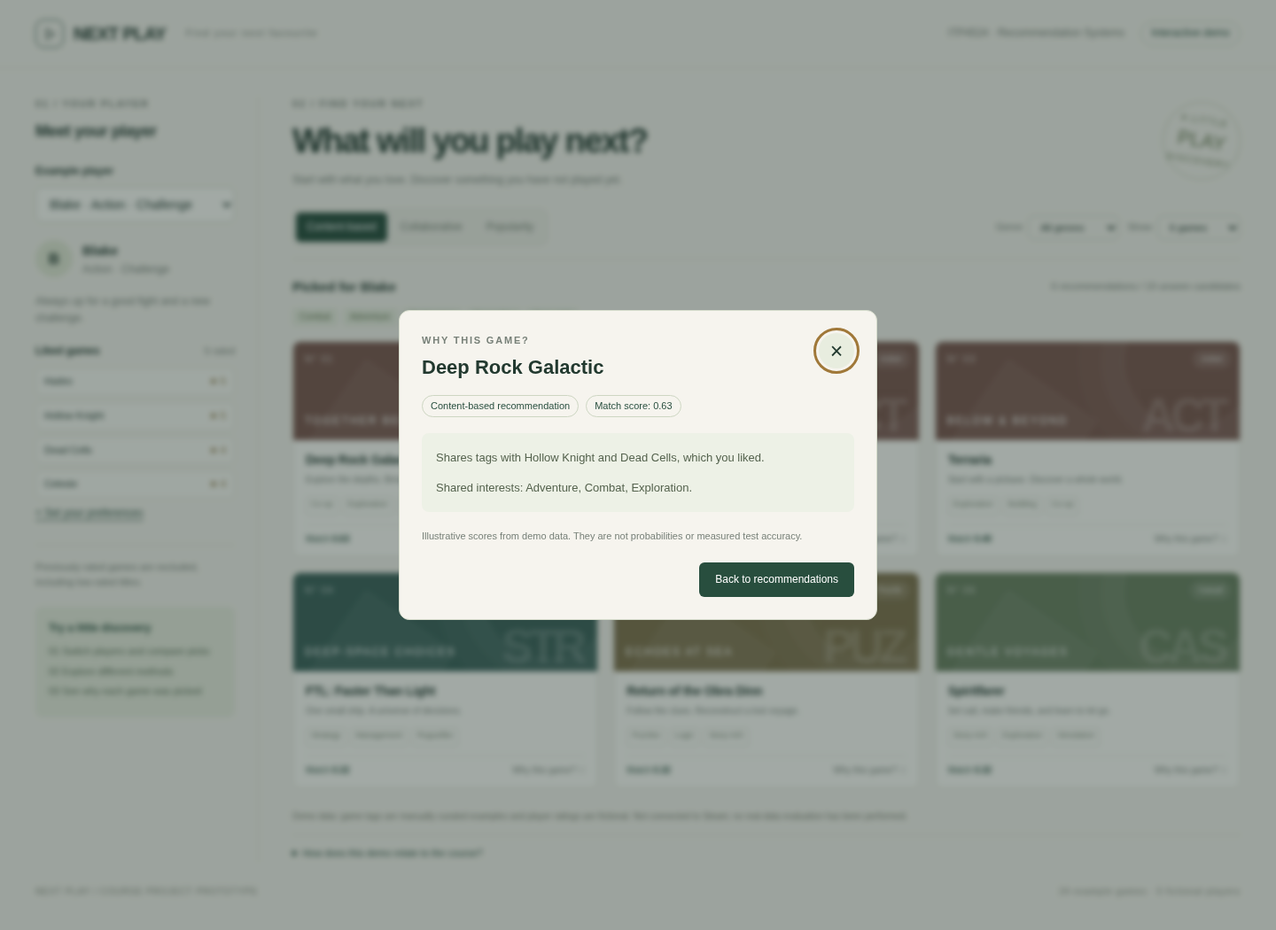
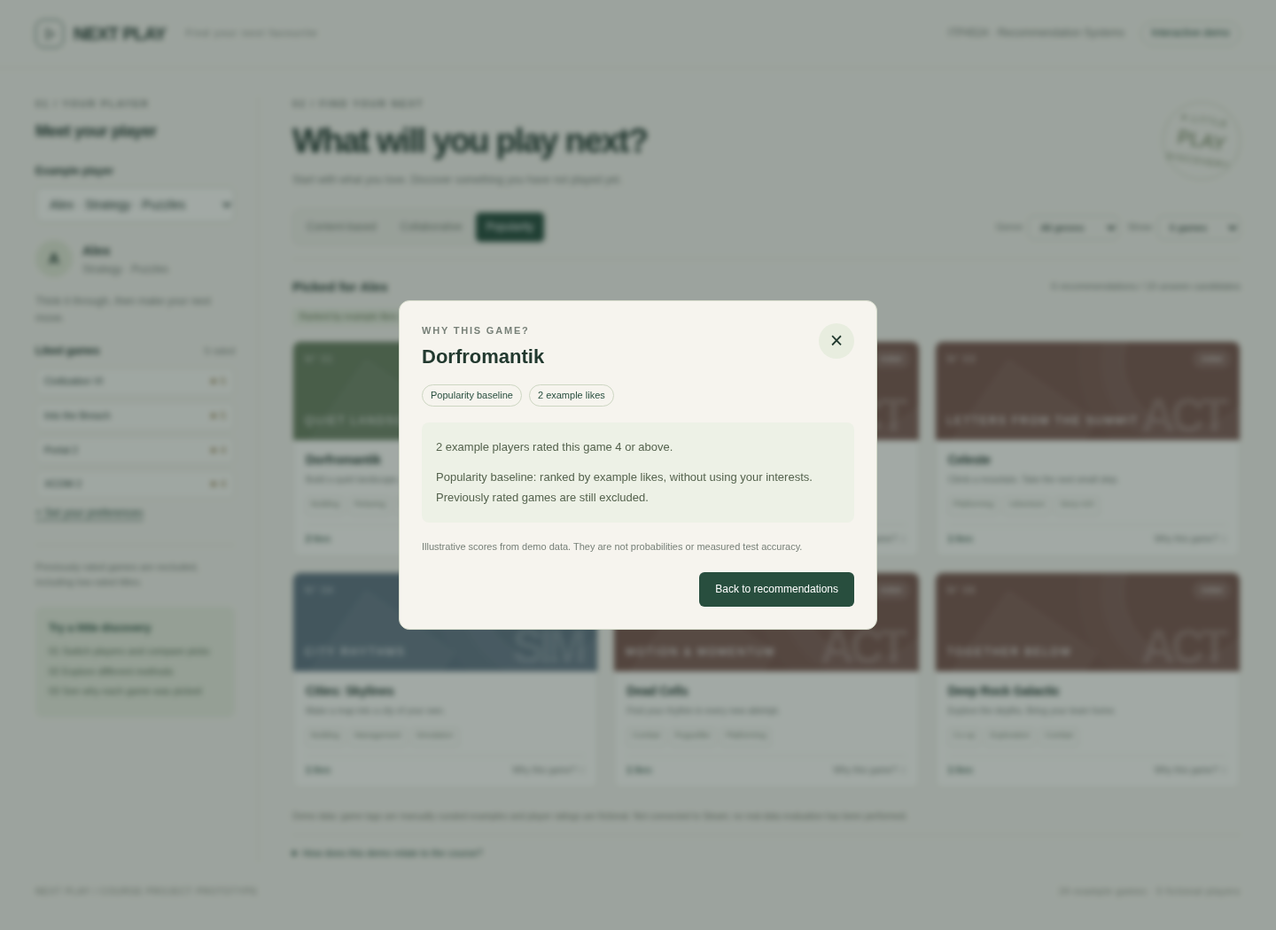
Synchronise current favourites and isolate scrolling in both dialogs

diff --git a/part_b/demo/index.html b/part_b/demo/index.html
@@ -6,12 +6,13 @@
 <title>Next Play · Game Recommendation Demo</title>
 <style>
 :root{--paper:#f6f4ee;--surface:#fffefa;--ink:#22392f;--muted:#778078;--line:#dedfd5;--green:#284e3e;--lime:#d9e7a6;--sans:"Segoe UI","PingFang SC","Microsoft YaHei",sans-serif}
-*{box-sizing:border-box}body{margin:0;background:var(--paper);color:var(--ink);font-family:var(--sans);font-size:14px;line-height:1.6}button,select,input{font:inherit}button,select,summary{cursor:pointer}button:focus-visible,select:focus-visible,summary:focus-visible,a:focus-visible{outline:3px solid #a07839;outline-offset:3px}button{color:inherit}button:disabled{cursor:wait;opacity:.65}header{border-bottom:1px solid var(--line)}.header-inner{max-width:1440px;margin:auto;padding:22px 40px;display:flex;align-items:center;justify-content:space-between;gap:20px}.brand{display:flex;align-items:center;gap:11px;font-size:20px;font-weight:750;letter-spacing:-.7px}.brand-mark{width:32px;height:32px;border:1.5px solid var(--green);border-radius:9px;display:grid;place-items:center}.brand-mark svg{width:19px}.brand small{font-size:11px;font-weight:500;letter-spacing:1.4px;margin-left:12px;color:var(--muted)}.header-right{display:flex;align-items:center;gap:18px;color:var(--muted);font-size:12px}.demo-tag{border:1px solid #c6d0bc;border-radius:30px;color:var(--green);padding:3px 11px}.shell{max-width:1440px;margin:auto;padding:32px 40px 18px;display:grid;grid-template-columns:252px minmax(0,1fr);gap:38px}.sidebar{padding-right:26px;border-right:1px solid var(--line)}.section-label{font-size:11px;letter-spacing:1.8px;color:var(--muted);font-weight:600}.sidebar h2{font-size:18px;letter-spacing:-.4px;margin:7px 0 22px}.field-label{display:block;font-size:12px;font-weight:600;margin-bottom:7px}select{width:100%;padding:10px 30px 10px 11px;background:var(--surface);border:1px solid #cbd0c2;border-radius:7px;color:var(--ink)}.player-card{padding:20px 0 17px;display:flex;gap:11px;align-items:center}.avatar{width:42px;height:42px;border-radius:50%;display:grid;place-items:center;background:#e2e8d5;font-size:17px;font-weight:600}.player-name{font-weight:650;font-size:15px}.player-taste{font-size:12px;color:var(--muted)}.player-note{font-size:12px;color:var(--muted);margin:0 0 18px}.history-label{display:flex;justify-content:space-between;align-items:center;font-size:12px;font-weight:600;margin-bottom:9px}.history-label span{font-size:11px;color:var(--muted);font-weight:400}.history{display:flex;flex-direction:column;gap:7px}.history-item{font-size:11px;display:flex;justify-content:space-between;gap:7px;border:1px solid var(--line);background:#fbfaf5;padding:6px 9px;border-radius:5px}.history-item span:first-child{overflow-wrap:anywhere}.stars{color:#8d7945;white-space:nowrap}.text-button{border:0;background:none;text-decoration:underline;text-underline-offset:4px;padding:7px 0;color:var(--green);font-size:12px}.sidebar-note{border-top:1px solid var(--line);margin-top:19px;padding-top:16px;color:var(--muted);font-size:11px}.steps{margin:18px 0;padding:15px;background:#e9eddf;border-radius:8px;color:#5a6f57;font-size:11px}.steps strong{display:block;color:var(--green);font-size:12px;margin-bottom:8px}.steps div{margin:5px 0}.hero{display:flex;justify-content:space-between;gap:18px;align-items:start;margin-bottom:23px}.hero h1{font-size:clamp(25px,2.8vw,38px);letter-spacing:-1.7px;line-height:1.35;margin:7px 0 9px;font-weight:700}.hero p{color:var(--muted);font-size:12px;margin:0}.hero-stamp{width:88px;height:88px;border:1px solid #c3ccb6;border-radius:50%;display:flex;flex-direction:column;align-items:center;justify-content:center;transform:rotate(9deg);color:#6b7c56;flex-shrink:0;font-size:10px;letter-spacing:1.5px;margin-top:6px}.hero-stamp b{font-size:22px;line-height:1.4;letter-spacing:0;font-weight:500}.toolbar{border-bottom:1px solid var(--line);padding-bottom:15px;margin-bottom:19px;display:flex;flex-wrap:wrap;align-items:center;justify-content:space-between;gap:12px}.methods{display:flex;padding:3px;border:1px solid var(--line);border-radius:8px;gap:3px;background:#efeee7}.method{background:none;border:0;border-radius:5px;padding:7px 12px;font-size:12px;color:#758073;transition:background .15s}.method[aria-pressed=true]{background:var(--green);color:#fff}.filters{display:flex;gap:9px}.filter{white-space:nowrap;display:flex;align-items:center;gap:6px;font-size:11px;color:var(--muted)}.filter select{padding:6px 20px 6px 9px;width:auto;font-size:11px;background:transparent}.result-header{flex-wrap:wrap;display:flex;justify-content:space-between;gap:10px;align-items:center;margin-bottom:12px}.result-header h2{font-size:15px;margin:0;font-weight:650}.result-header p{font-size:11px;color:var(--muted);margin:0}.taste-tags{display:flex;gap:6px;flex-wrap:wrap;margin-bottom:17px}.taste-tag{font-size:10px;padding:2px 8px;background:#e8eddf;color:#62734e;border-radius:3px}.game-grid{display:grid;grid-template-columns:repeat(3,minmax(0,1fr));gap:17px;transition:opacity .15s}.game-grid[aria-busy=true]{opacity:.45}.game-card{background:var(--surface);border:1px solid #e0e1d7;border-radius:9px;overflow:hidden;min-width:0;transition:transform .15s,box-shadow .15s}.game-card:hover{transform:translateY(-3px);box-shadow:0 8px 24px #283b2d0c}.poster{height:111px;position:relative;overflow:hidden;background:var(--tone);color:white}.poster:before{content:"";position:absolute;width:150px;height:150px;right:-20px;top:-54px;border:1px solid #ffffff33;border-radius:50%;box-shadow:0 0 0 24px #ffffff09,0 0 0 50px #ffffff07}.poster:after{content:"";position:absolute;left:36px;bottom:-55px;width:120px;height:120px;background:#ffffff0d;transform:rotate(35deg);border:1px solid #ffffff1a}.art-word{position:absolute;right:17px;bottom:-11px;font-size:53px;letter-spacing:-5px;opacity:.18;font-weight:700;line-height:1.5}.rank{position:absolute;left:13px;top:11px;font-size:11px;color:#ffffffab;letter-spacing:1px}.edition{position:absolute;left:13px;bottom:12px;font-size:12px;letter-spacing:2px}.genre{position:absolute;right:11px;top:10px;background:#ffffff19;border:1px solid #ffffff38;padding:1px 7px;border-radius:10px;font-size:9px}.game-body{padding:13px 14px 11px}.game-title{margin:0 0 4px;font-size:14px;font-weight:650;letter-spacing:-.25px;line-height:1.4;min-height:20px}.game-description{font-size:10px;color:var(--muted);margin:0 0 11px;line-height:1.6;min-height:16px}.game-tags{display:flex;gap:5px;flex-wrap:wrap;min-height:21px}.game-tag{font-size:9px;border:1px solid var(--line);border-radius:3px;padding:0 5px;color:#73806c}.card-bottom{border-top:1px solid #e8e9e0;margin-top:10px;padding-top:8px;display:flex;justify-content:space-between;align-items:start;gap:5px}.score{font-size:10px;color:var(--green);white-space:nowrap}.score b{font-weight:650}.why{font-size:10px;text-align:right;max-width:100%;border:0;padding:0;background:none;color:var(--muted)}.why:hover{color:var(--green);text-decoration:underline;text-underline-offset:3px}.why span{margin-left:3px}.empty{grid-column:1/-1;padding:55px 25px;border:1px dashed #b9c2ad;border-radius:9px;text-align:center;color:#74806b}.empty h3{color:var(--ink);font-size:17px;margin-top:0}.reset{border:1px solid var(--line);background:var(--surface);padding:7px 15px;border-radius:5px;margin-top:10px;font-size:12px}.data-note{color:#7a7f70;font-size:10px;padding:14px 0 4px;margin:10px 0 0}.course-note{font-size:11px;color:var(--muted);border-top:1px solid var(--line);padding-top:12px;margin-top:8px}.course-note summary{color:var(--green)}.course-note p{margin:9px 0;max-width:850px;line-height:1.9}footer{max-width:1440px;margin:auto;padding:8px 40px 21px;font-size:10px;letter-spacing:.9px;color:#8a8f82;display:flex;justify-content:space-between;gap:12px}.busy-text{font-size:11px;color:var(--muted)}dialog{width:min(720px,calc(100% - 28px));border:1px solid #d6dccc;border-radius:12px;background:var(--paper);color:var(--ink);padding:25px;max-height:85vh}dialog::backdrop{background:#172b2566;backdrop-filter:blur(3px)}.dialog-header{display:flex;justify-content:space-between;gap:12px;align-items:start}.dialog-header h2{margin:0;font-size:22px}.dialog-header p{font-size:12px;color:var(--muted);margin:5px 0 19px}.close{background:none;border:0;font-size:25px;line-height:1}.game-picker{display:grid;grid-template-columns:repeat(3,minmax(0,1fr));gap:8px;max-height:47vh;overflow:auto;padding:3px}.pick{display:flex;align-items:center;gap:7px;background:var(--surface);padding:9px;border:1px solid var(--line);border-radius:6px;font-size:11px;min-height:51px;cursor:pointer}.pick:has(input:checked){background:#e7eddb;border-color:#7b9065}.pick input{accent-color:var(--green)}.dialog-footer{display:flex;justify-content:space-between;gap:10px;align-items:center;margin-top:20px;font-size:12px;color:var(--muted)}.primary{background:var(--green);color:white;border:0;border-radius:6px;padding:10px 18px;font-size:12px}.dialog-error{color:#9c482e;font-size:12px;min-height:18px;margin:9px 0 0}
+*{box-sizing:border-box}body{margin:0;background:var(--paper);color:var(--ink);font-family:var(--sans);font-size:14px;line-height:1.6}button,select,input{font:inherit}button,select,summary{cursor:pointer}button:focus-visible,select:focus-visible,summary:focus-visible,a:focus-visible{outline:3px solid #a07839;outline-offset:3px}button{color:inherit}button:disabled{cursor:wait;opacity:.65}header{border-bottom:1px solid var(--line)}.header-inner{max-width:1440px;margin:auto;padding:22px 40px;display:flex;align-items:center;justify-content:space-between;gap:20px}.brand{display:flex;align-items:center;gap:11px;font-size:20px;font-weight:750;letter-spacing:-.7px}.brand-mark{width:32px;height:32px;border:1.5px solid var(--green);border-radius:9px;display:grid;place-items:center}.brand-mark svg{width:19px}.brand small{font-size:11px;font-weight:500;letter-spacing:1.4px;margin-left:12px;color:var(--muted)}.header-right{display:flex;align-items:center;gap:18px;color:var(--muted);font-size:12px}.demo-tag{border:1px solid #c6d0bc;border-radius:30px;color:var(--green);padding:3px 11px}.shell{max-width:1440px;margin:auto;padding:32px 40px 18px;display:grid;grid-template-columns:252px minmax(0,1fr);gap:38px}.sidebar{padding-right:26px;border-right:1px solid var(--line)}.section-label{font-size:11px;letter-spacing:1.8px;color:var(--muted);font-weight:600}.sidebar h2{font-size:18px;letter-spacing:-.4px;margin:7px 0 22px}.field-label{display:block;font-size:12px;font-weight:600;margin-bottom:7px}select{width:100%;padding:10px 30px 10px 11px;background:var(--surface);border:1px solid #cbd0c2;border-radius:7px;color:var(--ink)}.player-card{padding:20px 0 17px;display:flex;gap:11px;align-items:center}.avatar{width:42px;height:42px;border-radius:50%;display:grid;place-items:center;background:#e2e8d5;font-size:17px;font-weight:600}.player-name{font-weight:650;font-size:15px}.player-taste{font-size:12px;color:var(--muted)}.player-note{font-size:12px;color:var(--muted);margin:0 0 18px}.history-label{display:flex;justify-content:space-between;align-items:center;font-size:12px;font-weight:600;margin-bottom:9px}.history-label span{font-size:11px;color:var(--muted);font-weight:400}.history{display:flex;flex-direction:column;gap:7px}.history-item{font-size:11px;display:flex;justify-content:space-between;gap:7px;border:1px solid var(--line);background:#fbfaf5;padding:6px 9px;border-radius:5px}.history-item span:first-child{overflow-wrap:anywhere}.stars{color:#8d7945;white-space:nowrap}.text-button{border:0;background:none;text-decoration:underline;text-underline-offset:4px;padding:7px 0;color:var(--green);font-size:12px}.sidebar-note{border-top:1px solid var(--line);margin-top:19px;padding-top:16px;color:var(--muted);font-size:11px}.steps{margin:18px 0;padding:15px;background:#e9eddf;border-radius:8px;color:#5a6f57;font-size:11px}.steps strong{display:block;color:var(--green);font-size:12px;margin-bottom:8px}.steps div{margin:5px 0}.hero{display:flex;justify-content:space-between;gap:18px;align-items:start;margin-bottom:23px}.hero h1{font-size:clamp(25px,2.8vw,38px);letter-spacing:-1.7px;line-height:1.35;margin:7px 0 9px;font-weight:700}.hero p{color:var(--muted);font-size:12px;margin:0}.hero-stamp{width:88px;height:88px;border:1px solid #c3ccb6;border-radius:50%;display:flex;flex-direction:column;align-items:center;justify-content:center;transform:rotate(9deg);color:#6b7c56;flex-shrink:0;font-size:10px;letter-spacing:1.5px;margin-top:6px}.hero-stamp b{font-size:22px;line-height:1.4;letter-spacing:0;font-weight:500}.toolbar{border-bottom:1px solid var(--line);padding-bottom:15px;margin-bottom:19px;display:flex;flex-wrap:wrap;align-items:center;justify-content:space-between;gap:12px}.methods{display:flex;padding:3px;border:1px solid var(--line);border-radius:8px;gap:3px;background:#efeee7}.method{background:none;border:0;border-radius:5px;padding:7px 12px;font-size:12px;color:#758073;transition:background .15s}.method[aria-pressed=true]{background:var(--green);color:#fff}.filters{display:flex;gap:9px}.filter{white-space:nowrap;display:flex;align-items:center;gap:6px;font-size:11px;color:var(--muted)}.filter select{padding:6px 20px 6px 9px;width:auto;font-size:11px;background:transparent}.result-header{flex-wrap:wrap;display:flex;justify-content:space-between;gap:10px;align-items:center;margin-bottom:12px}.result-header h2{font-size:15px;margin:0;font-weight:650}.result-header p{font-size:11px;color:var(--muted);margin:0}.taste-tags{display:flex;gap:6px;flex-wrap:wrap;margin-bottom:17px}.taste-tag{font-size:10px;padding:2px 8px;background:#e8eddf;color:#62734e;border-radius:3px}.game-grid{display:grid;grid-template-columns:repeat(3,minmax(0,1fr));gap:17px;transition:opacity .15s}.game-grid[aria-busy=true]{opacity:.45}.game-card{background:var(--surface);border:1px solid #e0e1d7;border-radius:9px;overflow:hidden;min-width:0;transition:transform .15s,box-shadow .15s}.game-card:hover{transform:translateY(-3px);box-shadow:0 8px 24px #283b2d0c}.poster{height:111px;position:relative;overflow:hidden;background:var(--tone);color:white}.poster:before{content:"";position:absolute;width:150px;height:150px;right:-20px;top:-54px;border:1px solid #ffffff33;border-radius:50%;box-shadow:0 0 0 24px #ffffff09,0 0 0 50px #ffffff07}.poster:after{content:"";position:absolute;left:36px;bottom:-55px;width:120px;height:120px;background:#ffffff0d;transform:rotate(35deg);border:1px solid #ffffff1a}.art-word{position:absolute;right:17px;bottom:-11px;font-size:53px;letter-spacing:-5px;opacity:.18;font-weight:700;line-height:1.5}.rank{position:absolute;left:13px;top:11px;font-size:11px;color:#ffffffab;letter-spacing:1px}.edition{position:absolute;left:13px;bottom:12px;font-size:12px;letter-spacing:2px}.genre{position:absolute;right:11px;top:10px;background:#ffffff19;border:1px solid #ffffff38;padding:1px 7px;border-radius:10px;font-size:9px}.game-body{padding:13px 14px 11px}.game-title{margin:0 0 4px;font-size:14px;font-weight:650;letter-spacing:-.25px;line-height:1.4;min-height:20px}.game-description{font-size:10px;color:var(--muted);margin:0 0 11px;line-height:1.6;min-height:16px}.game-tags{display:flex;gap:5px;flex-wrap:wrap;min-height:21px}.game-tag{font-size:9px;border:1px solid var(--line);border-radius:3px;padding:0 5px;color:#73806c}.card-bottom{border-top:1px solid #e8e9e0;margin-top:10px;padding-top:8px;display:flex;justify-content:space-between;align-items:start;gap:5px}.score{font-size:10px;color:var(--green);white-space:nowrap}.score b{font-weight:650}.why{font-size:10px;text-align:right;max-width:100%;border:0;padding:0;background:none;color:var(--muted)}.why:hover{color:var(--green);text-decoration:underline;text-underline-offset:3px}.why span{margin-left:3px}.empty{grid-column:1/-1;padding:55px 25px;border:1px dashed #b9c2ad;border-radius:9px;text-align:center;color:#74806b}.empty h3{color:var(--ink);font-size:17px;margin-top:0}.reset{border:1px solid var(--line);background:var(--surface);padding:7px 15px;border-radius:5px;margin-top:10px;font-size:12px}.data-note{color:#7a7f70;font-size:10px;padding:14px 0 4px;margin:10px 0 0}.course-note{font-size:11px;color:var(--muted);border-top:1px solid var(--line);padding-top:12px;margin-top:8px}.course-note summary{color:var(--green)}.course-note p{margin:9px 0;max-width:850px;line-height:1.9}footer{max-width:1440px;margin:auto;padding:8px 40px 21px;font-size:10px;letter-spacing:.9px;color:#8a8f82;display:flex;justify-content:space-between;gap:12px}.busy-text{font-size:11px;color:var(--muted)}dialog{width:min(720px,calc(100% - 28px));border:1px solid #d6dccc;border-radius:12px;background:var(--paper);color:var(--ink);padding:25px;max-height:85vh;overflow-y:auto;overscroll-behavior:contain}dialog::backdrop{background:#172b2566;backdrop-filter:blur(3px)}.dialog-header{display:flex;justify-content:space-between;gap:12px;align-items:start}.dialog-header h2{margin:0;font-size:22px}.dialog-header p{font-size:12px;color:var(--muted);margin:5px 0 19px}.close{background:none;border:0;font-size:25px;line-height:1}.game-picker{display:grid;grid-template-columns:repeat(3,minmax(0,1fr));gap:8px;max-height:47vh;overflow:auto;overscroll-behavior:contain;touch-action:pan-y;padding:3px}.pick{display:flex;align-items:center;gap:7px;background:var(--surface);padding:9px;border:1px solid var(--line);border-radius:6px;font-size:11px;min-height:51px;cursor:pointer}.pick:has(input:checked){background:#e7eddb;border-color:#7b9065}.pick input{accent-color:var(--green)}.dialog-footer{display:flex;justify-content:space-between;gap:10px;align-items:center;margin-top:20px;font-size:12px;color:var(--muted)}.primary{background:var(--green);color:white;border:0;border-radius:6px;padding:10px 18px;font-size:12px}.dialog-error{color:#9c482e;font-size:12px;min-height:18px;margin:9px 0 0}
 @media(min-width:1450px){.poster{height:126px}.game-title{font-size:15px}.game-description{font-size:11px}}
 @media(max-width:1100px){.header-inner{padding:20px 25px}.shell{padding:26px 25px;gap:24px;grid-template-columns:225px minmax(0,1fr)}.sidebar{padding-right:20px}.game-grid{grid-template-columns:repeat(2,minmax(0,1fr))}.hero-stamp{display:none}footer{padding:10px 25px 20px}.toolbar{gap:12px}.methods{width:100%}.method{flex:1}.filters{width:100%;justify-content:flex-end}}
 @media(max-width:700px){.header-inner{padding:17px 18px}.brand{font-size:18px}.brand small{display:none}.header-right>span:first-child{display:none}.shell{display:flex;flex-direction:column;padding:23px 18px;gap:21px}.sidebar{border:0;border-bottom:1px solid var(--line);padding:0 0 16px}.sidebar h2{margin:4px 0 13px;font-size:16px}.player-card{padding:12px 0 8px}.player-note{margin-bottom:9px}.history{flex-direction:row;flex-wrap:wrap}.history-item{max-width:100%;font-size:10px;padding:4px 7px}.history-label{margin-bottom:6px}.sidebar-note,.steps{display:none}.hero h1{font-size:30px}.hero{margin-bottom:17px}.hero p{font-size:11px}.toolbar{margin-bottom:15px}.method{padding:7px 8px;font-size:11px}.game-grid{gap:11px}.poster{height:93px}.game-body{padding:11px 10px 9px}.game-title{font-size:12px;min-height:34px}.game-description{font-size:10px;min-height:32px}.game-tag{font-size:9px}.card-bottom{flex-wrap:wrap;gap:5px}.why{margin-left:auto}.result-header h2{font-size:14px}.result-header p{font-size:10px}.art-word{font-size:43px}.edition{font-size:10px}.data-note{font-size:10px}footer{padding:0 18px 20px;font-size:9px}.game-picker{grid-template-columns:repeat(2,minmax(0,1fr))}.pick{font-size:10px}dialog{padding:19px}.dialog-footer{font-size:11px}.primary{padding:9px 12px}}
 @media(prefers-reduced-motion:reduce){*{transition:none!important;scroll-behavior:auto!important}}
 
+#preferenceDialog[open]{display:flex;flex-direction:column;overflow:hidden}#preferenceDialog .dialog-header,#preferenceDialog .dialog-error,#preferenceDialog .dialog-footer{flex-shrink:0}#preferenceDialog .game-picker{min-height:0;flex:0 1 auto}
 .reason-dialog{width:min(540px,calc(100% - 28px));overflow-y:auto;overscroll-behavior:contain}
 .reason-dialog .dialog-header>div{min-width:0}.reason-dialog h2{margin-top:6px;line-height:1.35;overflow-wrap:anywhere}
 .reason-dialog .close{flex-shrink:0;width:40px;height:40px;border-radius:50%;background:#e8eddf}
@@ -46,7 +47,7 @@
 </main>
 </div>
 <footer><span>NEXT PLAY / COURSE PROJECT PROTOTYPE</span><span id="sampleCount">Demonstration sample · Prototype</span></footer>
-<dialog id="preferenceDialog" aria-labelledby="dialogTitle"><div class="dialog-header"><div><h2 id="dialogTitle">What do you enjoy playing?</h2><p>Choose 1–8 favourites to discover your next game.</p></div><button class="close" id="closeDialog" aria-label="Close preference selection">×</button></div><div class="game-picker" id="gamePicker"></div><p class="dialog-error" id="dialogError" role="alert"></p><div class="dialog-footer"><span id="selectedCount">0 selected</span><button class="primary" id="applyPreference">Find my next game →</button></div></dialog>
+<dialog id="preferenceDialog" aria-labelledby="dialogTitle"><div class="dialog-header"><div><h2 id="dialogTitle">What do you enjoy playing?</h2><p id="preferenceHint">Your current favourites are preselected. Choose up to 8, or clear all to see popular games.</p></div><button class="close" id="closeDialog" aria-label="Close preference selection">×</button></div><div class="game-picker" id="gamePicker"></div><p class="dialog-error" id="dialogError" role="alert"></p><div class="dialog-footer"><span id="selectedCount">0 selected</span><button class="primary" id="applyPreference">Find my next game →</button></div></dialog>
 <dialog id="reasonDialog" class="reason-dialog" aria-labelledby="reasonTitle" aria-describedby="reasonSummary reasonDetail">
 <div class="dialog-header"><div><div class="section-label">WHY THIS GAME?</div><h2 id="reasonTitle"></h2></div><button class="close" id="closeReason" type="button" aria-label="Close recommendation explanation" autofocus>×</button></div>
 <div class="reason-meta"><span id="reasonMethod"></span><span id="reasonScore"></span></div>
@@ -57,17 +58,24 @@
 <script>
 'use strict';
 let catalog, requestNumber = 0;
-const state = {profile_id:'lin',method:'content',genre:'all',limit:6,liked:[]};
+const state = {profile_id:'lin',method:'content',genre:'all',limit:6,liked:null};
 const $ = id => document.getElementById(id);
 const escapeHTML = value => String(value).replace(/[&<>"']/g, character => ({'&':'&amp;','<':'&lt;','>':'&gt;','"':'&quot;',"'":'&#39;'}[character]));
 const tones = {'Casual':'#6b8062','Action':'#7c574f','Strategy':'#3c625b','Puzzle':'#80724e','Simulation':'#617483'};
 const gamesById = () => Object.fromEntries(catalog.games.map(game=>[game.id,game]));
+function getActivePlayer(){
+ if(state.profile_id==='new'){
+  const liked=state.liked||[];
+  return {name:'New player',initial:'N',taste:liked.length?'Based on your chosen games':'No favourites selected',note:liked.length?'Your favourites are the starting point.':'Start with popular games, or add some favourites.',ratings:Object.fromEntries(liked.map(id=>[id,5]))};
+ }
+ return catalog.profiles.find(player=>player.id===state.profile_id);
+}
 function updatePlayer(){
- const player=state.profile_id==='new'?{name:'New player',initial:'N',taste:'Based on your chosen games',note:'Your favourites are the starting point.',ratings:Object.fromEntries(state.liked.map(id=>[id,5]))}:catalog.profiles.find(player=>player.id===state.profile_id);
+ const player=getActivePlayer();
  $('profile').value=state.profile_id;$('avatar').textContent=player.initial;$('playerName').textContent=player.name;$('playerTaste').textContent=player.taste;$('playerNote').textContent=player.note;
  const liked=Object.entries(player.ratings).filter(([,rating])=>rating>=4), games=gamesById();
  $('historyCount').textContent=`${Object.keys(player.ratings).length} rated`;
- $('history').innerHTML=liked.map(([id,rating])=>`<div class="history-item"><span>${escapeHTML(games[id].title)}</span><span class="stars">★ ${rating}</span></div>`).join('');
+ $('history').innerHTML=liked.length?liked.map(([id,rating])=>`<div class="history-item"><span>${escapeHTML(games[id].title)}</span><span class="stars">★ ${rating}</span></div>`).join(''):'<p class="player-note">No favourites selected yet.</p>';
  $('resultTitle').textContent=`Picked for ${player.name}`;
 }
 function renderCard(game,index){
@@ -75,39 +83,54 @@ function renderCard(game,index){
  const scoreTitle=state.method==='popular'?'Number of example players who rated the game 4 or above':state.method==='content'?'Cosine similarity between your preference vector and the game tags; not a probability':'Weighted support from similar example players; not a probability';
  return `<article class="game-card"><div class="poster" style="--tone:${tones[game.genre]||'#4d6655'}"><span class="rank">N° ${String(index+1).padStart(2,'0')}</span><span class="genre">${escapeHTML(game.genre)}</span><span class="art-word" aria-hidden="true">${escapeHTML(game.genre.slice(0,3).toUpperCase())}</span><span class="edition">${escapeHTML(game.edition)}</span></div><div class="game-body"><h3 class="game-title">${escapeHTML(game.title)}</h3><p class="game-description">${escapeHTML(game.description)}</p><div class="game-tags">${game.tags.slice(0,3).map(tag=>`<span class="game-tag">${escapeHTML(tag)}</span>`).join('')}</div><div class="card-bottom"><span class="score" title="${scoreTitle}">${scoreLabel}</span><button class="why" type="button" aria-haspopup="dialog" aria-controls="reasonDialog" aria-label="Why recommend ${escapeHTML(game.title)}?">Why this game?<span aria-hidden="true">↗</span></button></div></div></article>`;
 }
-let reasonTrigger = null;
-let reasonScrollStyles = null;
+// Both dialogs share the same scroll lock and focus restoration.
+const modalTriggers = new Map();
+let backgroundSnapshot = null;
+function openModal(dialog, trigger){
+ if(dialog.open)return;
+ if(modalTriggers.size===0){
+  const root=document.documentElement, body=document.body;
+  const scrollbarWidth=window.innerWidth-root.clientWidth;
+  const paddingRight=parseFloat(getComputedStyle(body).paddingRight)||0;
+  backgroundSnapshot={x:window.scrollX,y:window.scrollY,rootStyle:root.getAttribute('style'),bodyStyle:body.getAttribute('style')};
+  root.style.overflow='hidden';root.style.overscrollBehavior='none';
+  body.style.position='fixed';body.style.top=`-${backgroundSnapshot.y}px`;body.style.left=`-${backgroundSnapshot.x}px`;
+  body.style.width='100%';body.style.overflow='hidden';body.style.paddingRight=`${paddingRight+scrollbarWidth}px`;
+ }
+ modalTriggers.set(dialog,trigger);
+ dialog.showModal();
+}
+document.querySelectorAll('dialog').forEach(dialog=>{
+ dialog.addEventListener('close',()=>{
+  const trigger=modalTriggers.get(dialog);
+  modalTriggers.delete(dialog);
+  if(dialog.id==='preferenceDialog')$('profile').value=state.profile_id;
+  if(modalTriggers.size===0 && backgroundSnapshot){
+   const snapshot=backgroundSnapshot;
+   for(const [element,style] of [[document.documentElement,snapshot.rootStyle],[document.body,snapshot.bodyStyle]]){
+    if(style===null)element.removeAttribute('style');else element.setAttribute('style',style);
+   }
+   backgroundSnapshot=null;
+   window.scrollTo(snapshot.x,snapshot.y);
+   if(trigger && trigger.isConnected)trigger.focus({preventScroll:true});
+  }
+ });
+ dialog.addEventListener('click',event=>{
+  if(event.target!==dialog)return;
+  const bounds=dialog.getBoundingClientRect();
+  if(event.clientX<bounds.left || event.clientX>bounds.right || event.clientY<bounds.top || event.clientY>bounds.bottom)dialog.close();
+ });
+});
 function showReason(game, method, trigger){
- reasonTrigger=trigger;
  $('reasonTitle').textContent=game.title;
  $('reasonSummary').textContent=game.reason;
  $('reasonDetail').textContent=game.detail;
  $('reasonMethod').textContent={content:'Content-based recommendation',collaborative:'Similar-player recommendation',popular:'Popularity baseline'}[method];
  $('reasonScore').textContent=method==='popular'?`${game.score} example likes`:`${method==='content'?'Match score':'Peer support'}: ${game.score.toFixed(2)}`;
- const root=document.documentElement;
- const body=document.body;
- const scrollbarWidth=window.innerWidth-root.clientWidth;
- reasonScrollStyles={overflow:root.style.overflow,paddingRight:body.style.paddingRight};
- if(scrollbarWidth>0)body.style.paddingRight=`${(parseFloat(getComputedStyle(body).paddingRight)||0)+scrollbarWidth}px`;
- root.style.overflow='hidden';
- $('reasonDialog').showModal();
+ openModal($('reasonDialog'),trigger);
 }
 $('closeReason').onclick=()=> $('reasonDialog').close();
 $('dismissReason').onclick=()=> $('reasonDialog').close();
-$('reasonDialog').addEventListener('close',()=>{
- if(reasonScrollStyles){
-  document.documentElement.style.overflow=reasonScrollStyles.overflow;
-  document.body.style.paddingRight=reasonScrollStyles.paddingRight;
-  reasonScrollStyles=null;
- }
- if(reasonTrigger && reasonTrigger.isConnected)reasonTrigger.focus({preventScroll:true});
- reasonTrigger=null;
-});
-$('reasonDialog').addEventListener('click',event=>{
- if(event.target!==$('reasonDialog'))return;
- const bounds=$('reasonDialog').getBoundingClientRect();
- if(event.clientX<bounds.left || event.clientX>bounds.right || event.clientY<bounds.top || event.clientY>bounds.bottom)$('reasonDialog').close();
-});
 async function loadRecommendations(){
  const current=++requestNumber;
  if($('reasonDialog').open)$('reasonDialog').close();
@@ -120,7 +143,7 @@ async function loadRecommendations(){
   $('resultMeta').textContent=`${data.results.length} recommendations / ${data.eligible_count} unseen candidates`;
   $('tasteTags').innerHTML=(state.method==='popular'?['Ranked by example likes']:data.taste_tags).map(tag=>`<span class="taste-tag">${escapeHTML(tag)}</span>`).join('');
   if(!data.results.length){
-   const message=state.method==='collaborative'&&data.neighbour_count===0?'No example players share these favourites yet. Try Content-based recommendations.':'Try another genre or switch recommendation methods.';
+   const message=state.profile_id==='new'&&state.liked.length===0?'Add some favourites with Set your preferences, or switch to Popularity.':state.method==='collaborative'&&data.neighbour_count===0?'No example players share these favourites yet. Try Content-based recommendations.':'Try another genre or switch recommendation methods.';
    $('results').innerHTML=`<div class="empty"><h3>No matching recommendations yet</h3><p>${message}</p><button class="reset" id="clearFilters">Show all genres</button></div>`;
    $('clearFilters').onclick=()=>{state.genre='all';$('genre').value='all';loadRecommendations();};
   }else{
@@ -130,18 +153,28 @@ async function loadRecommendations(){
  }catch(error){if(current===requestNumber){$('resultMeta').textContent='Unable to load recommendations';$('results').innerHTML=`<div class="empty"><h3>Connection interrupted</h3><p>Make sure demo.py is still running, then refresh this page.</p></div>`;}}
  finally{if(current===requestNumber)$('results').setAttribute('aria-busy','false');}
 }
-function openPreference(){
- $('gamePicker').innerHTML=catalog.games.map(game=>`<label class="pick"><input type="checkbox" value="${escapeHTML(game.id)}" ${state.liked.includes(game.id)?'checked':''}><span>${escapeHTML(game.title)}</span></label>`).join('');
+function openPreference(trigger=$('newPlayer')){
+ const player=getActivePlayer();
+ const selected=new Set(Object.entries(player.ratings).filter(([,rating])=>rating>=4).map(([id])=>id));
+ const ordered=[...catalog.games].sort((first,second)=>Number(selected.has(second.id))-Number(selected.has(first.id)));
+ $('gamePicker').innerHTML=ordered.map(game=>`<label class="pick"><input type="checkbox" value="${escapeHTML(game.id)}" ${selected.has(game.id)?'checked':''}><span>${escapeHTML(game.title)}</span></label>`).join('');
+ $('preferenceHint').textContent=state.profile_id==='new'?'Your current favourites are preselected. Choose up to 8, or clear all to see popular games.':`${player.name}'s favourites are preselected. Apply to use a custom player. With none selected, start with popular games.`;
  $('dialogError').textContent='';
- const update=()=>{$('selectedCount').textContent=`${$('gamePicker').querySelectorAll('input:checked').length} selected`;};
- $('gamePicker').onchange=update;update();$('preferenceDialog').showModal();
+ const update=()=>{
+  const count=$('gamePicker').querySelectorAll('input:checked').length;
+  $('selectedCount').textContent=count?`${count} selected`:'0 selected · Popularity baseline';
+  $('dialogError').textContent=count>8?'Please choose no more than 8 games.':'';
+ };
+ $('gamePicker').onchange=update;update();
+ openModal($('preferenceDialog'),trigger);
+ $('gamePicker').scrollTop=0;
 }
-$('closeDialog').onclick=()=>{$('preferenceDialog').close();$('profile').value=state.profile_id;};
-$('preferenceDialog').addEventListener('cancel',()=>{$('profile').value=state.profile_id;});
+$('closeDialog').onclick=()=> $('preferenceDialog').close();
 $('applyPreference').onclick=()=>{
- const chosen=[...$('gamePicker').querySelectorAll('input:checked')].map(input=>input.value);
- if(chosen.length<1||chosen.length>8){$('dialogError').textContent='Please choose 1–8 games.';return;}
- state.liked=chosen;state.profile_id='new';state.method='content';state.genre='all';$('genre').value='all';$('preferenceDialog').close();updatePlayer();loadRecommendations();
+ const chosen=[...new Set([...$('gamePicker').querySelectorAll('input:checked')].map(input=>input.value))];
+ if(chosen.length>8){$('dialogError').textContent='Please choose no more than 8 games.';return;}
+ state.liked=chosen;state.profile_id='new';state.method=chosen.length?'content':'popular';state.genre='all';$('genre').value='all';
+ $('preferenceDialog').close();updatePlayer();loadRecommendations();
 };
 async function init(){
  try{
@@ -151,11 +184,11 @@ async function init(){
   $('genre').innerHTML='<option value="all">All genres</option>'+[...new Set(catalog.games.map(game=>game.genre))].map(genre=>`<option value="${escapeHTML(genre)}">${escapeHTML(genre)}</option>`).join('');
   $('sampleCount').textContent=`${catalog.games.length} example games · ${catalog.profiles.length} fictional players`;
   $('dataNote').textContent=catalog.notice;
-  $('profile').onchange=event=>{if(event.target.value==='new'){if(!state.liked.length){openPreference();return;}}state.profile_id=event.target.value;updatePlayer();loadRecommendations();};
+  $('profile').onchange=event=>{if(event.target.value==='new' && state.liked===null){openPreference(event.target);return;}state.profile_id=event.target.value;if(state.profile_id==='new' && state.liked.length===0)state.method='popular';updatePlayer();loadRecommendations();};
   $('genre').onchange=event=>{state.genre=event.target.value;loadRecommendations();};
   $('limit').onchange=event=>{state.limit=Number(event.target.value);loadRecommendations();};
   document.querySelectorAll('.method').forEach(button=>button.onclick=()=>{state.method=button.dataset.method;loadRecommendations();});
-  $('newPlayer').onclick=openPreference;updatePlayer();await loadRecommendations();
+  $('newPlayer').onclick=event=>openPreference(event.currentTarget);updatePlayer();await loadRecommendations();
  }catch(error){$('results').setAttribute('aria-busy','false');$('resultMeta').textContent='Start the demo first';$('results').innerHTML='<div class="empty"><h3>Run demo.py from the same folder</h3><p>Run demo.py with Python to open the interactive demo in your browser. No third-party packages are required.</p></div>';}
 }
 init();

diff --git a/part_b/demo/demo.py b/part_b/demo/demo.py
@@ -44,10 +44,13 @@ def recommend(profile_id='lin', method='content', genre='all', limit=6, liked=No
     if isinstance(limit, bool) or not isinstance(limit, int) or not 1 <= limit <= 12:
         raise ValueError('Choose between 1 and 12 results.')
     if profile_id == 'new':
-        if not isinstance(liked, list) or not 1 <= len(liked) <= 8:
-            raise ValueError('Please choose 1 to 8 games you like.')
+        if not isinstance(liked, list):
+            raise ValueError('Please provide a list of favourite games.')
         if any(not isinstance(game, str) or game not in GAMES for game in liked):
             raise ValueError('Unknown game.')
+        liked = list(dict.fromkeys(liked))
+        if len(liked) > 8:
+            raise ValueError('Please choose no more than 8 games.')
         ratings = {game: 5 for game in liked}
         player_name = 'New player'
     else:
